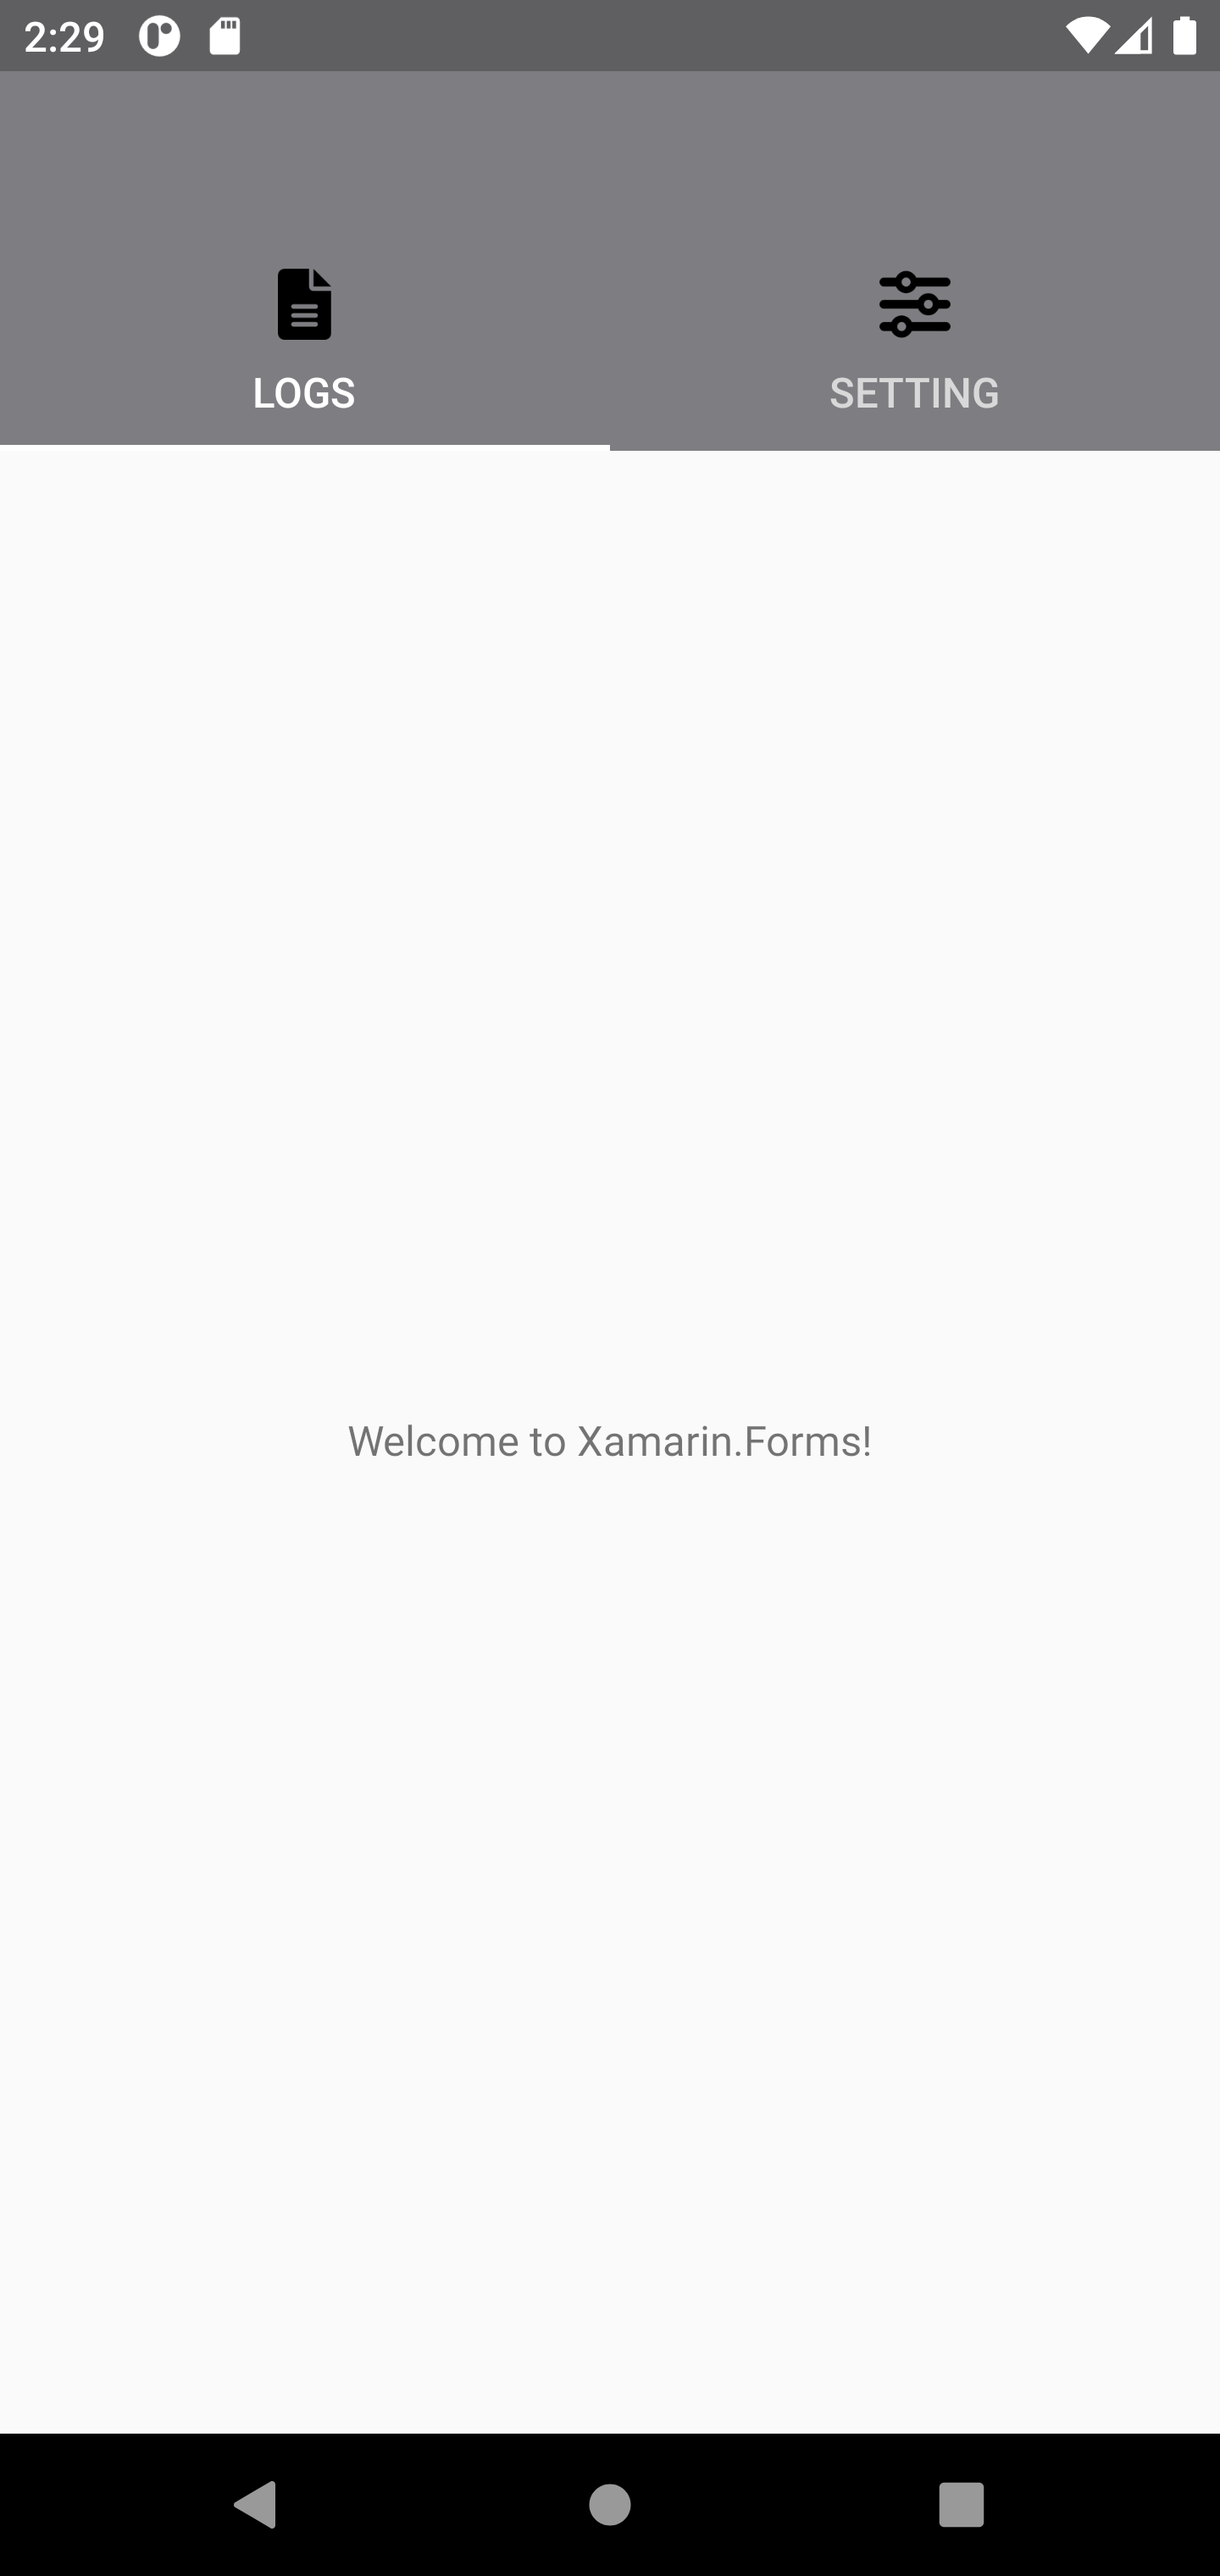
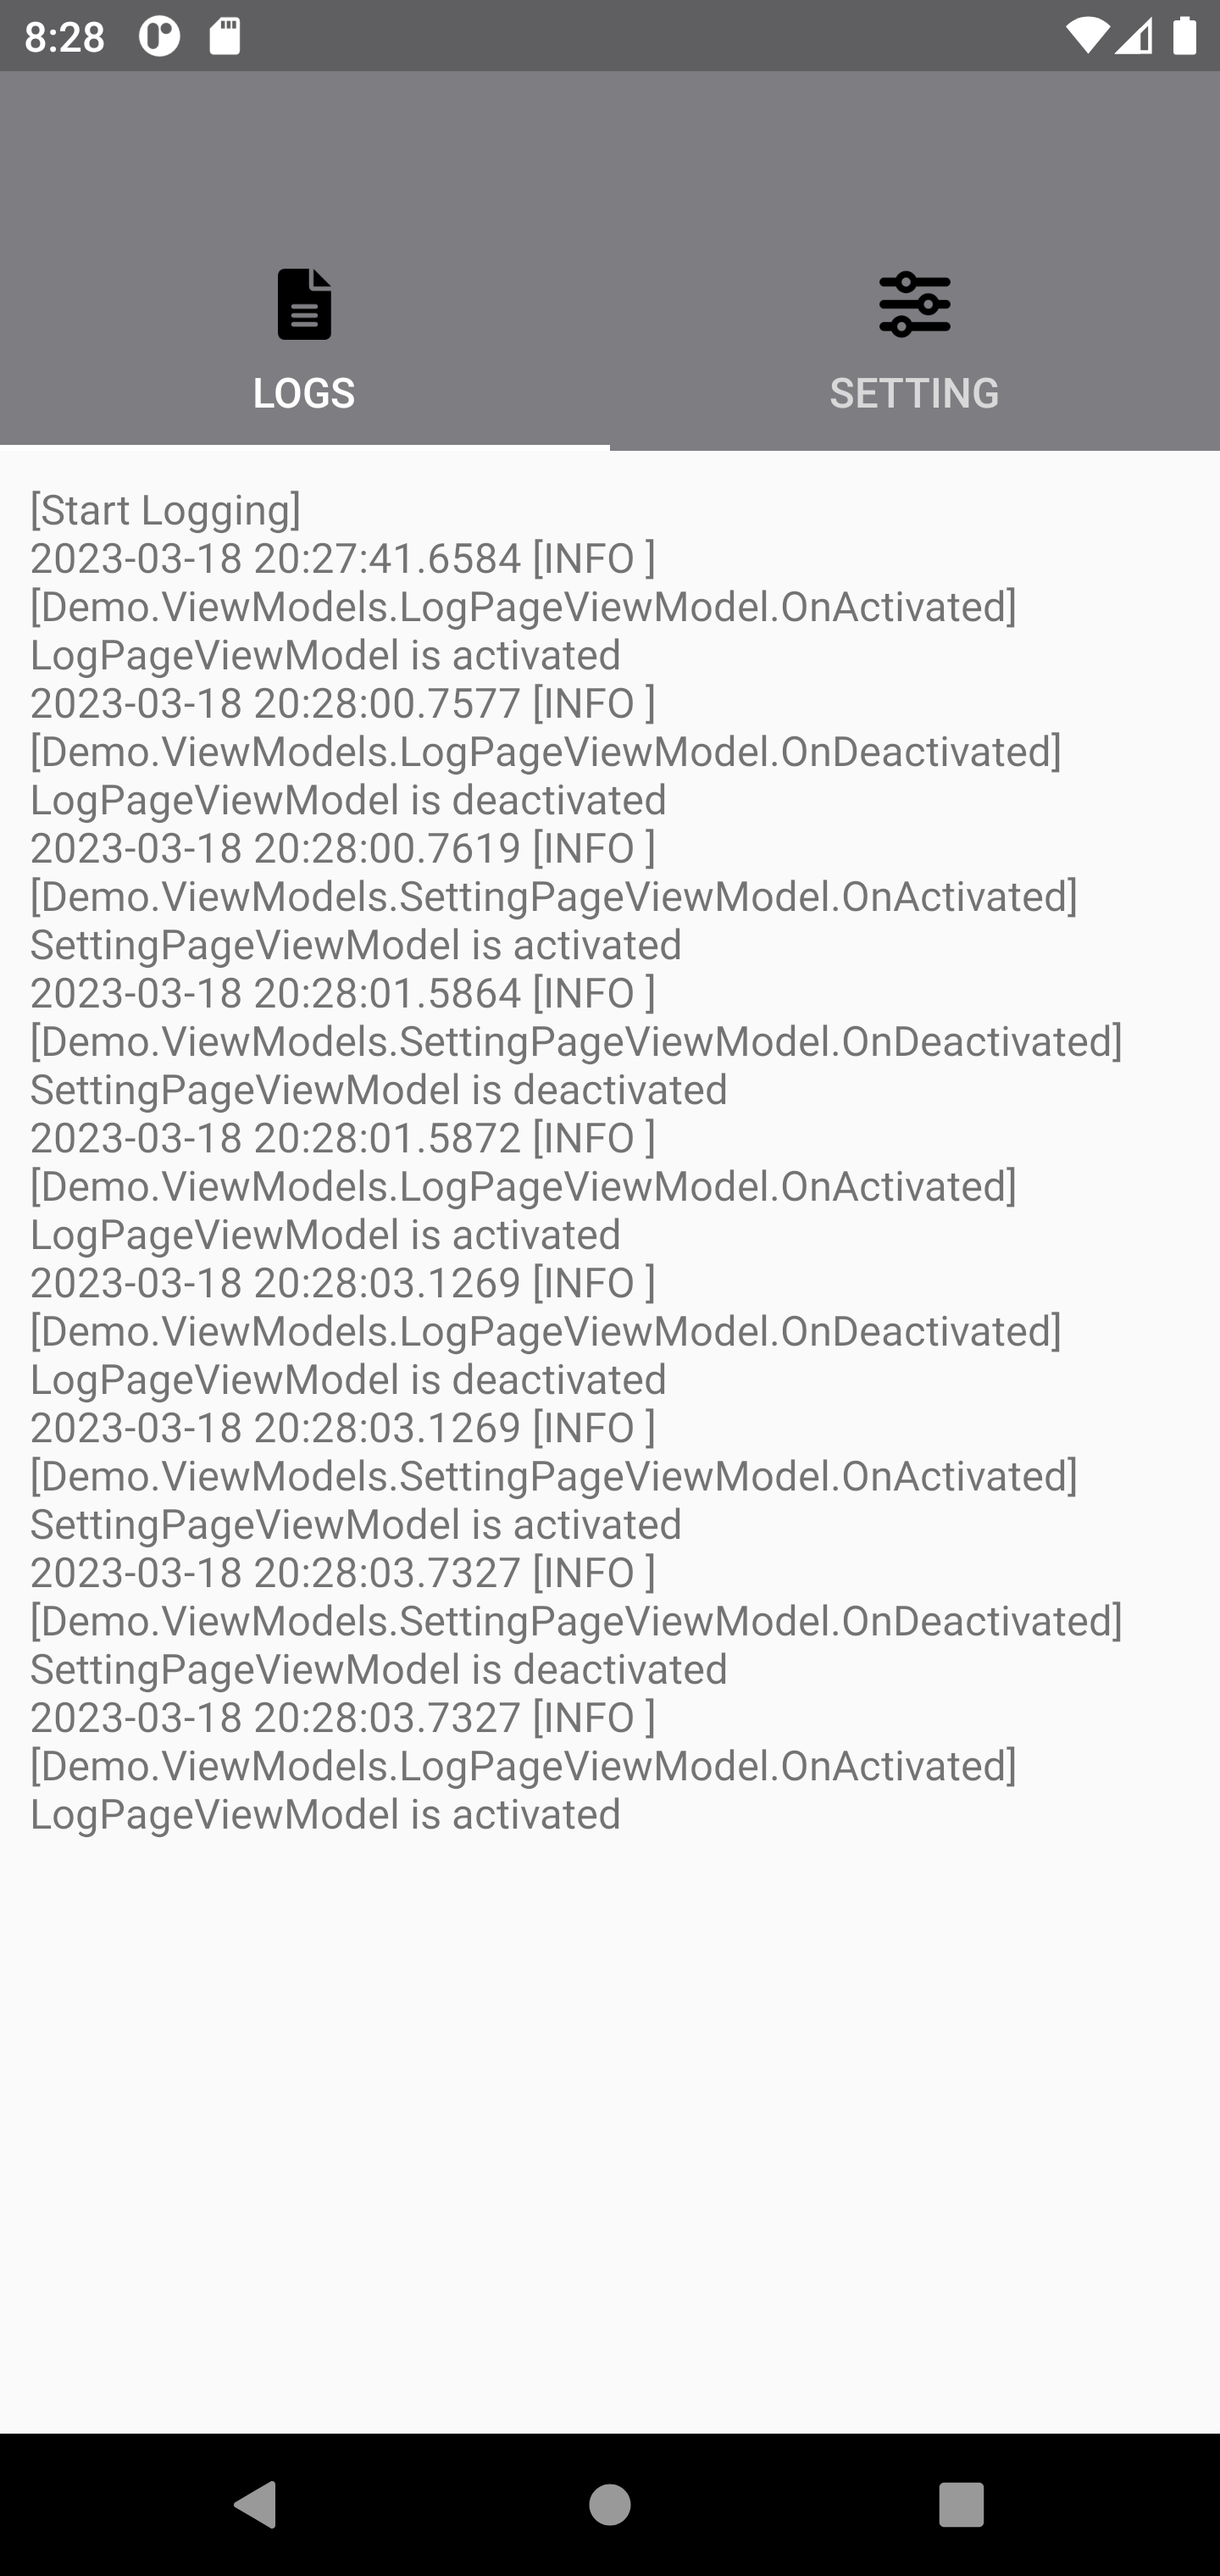
fix

Changed region(s): [[0.0312, 0.1875, 0.9062, 0.7188]]

diff --git a/Xamarin/21_TabbedPage/sources/Demo/Views/LogPage.xaml b/Xamarin/21_TabbedPage/sources/Demo/Views/LogPage.xaml
@@ -9,10 +9,13 @@
     </ContentPage.BindingContext>
 
     <ContentPage.Content>
-        <StackLayout>
-            <Label HorizontalOptions="CenterAndExpand"
-                   Text="Welcome to Xamarin.Forms!"
-                   VerticalOptions="CenterAndExpand" />
+        <StackLayout Padding="10"
+                     HorizontalOptions="FillAndExpand"
+                     VerticalOptions="FillAndExpand">
+            <ScrollView HorizontalOptions="FillAndExpand"
+                        VerticalOptions="FillAndExpand">
+                <Label Text="{Binding Logs}" />
+            </ScrollView>
         </StackLayout>
     </ContentPage.Content>
 </ContentPage>

diff --git a/Xamarin/21_TabbedPage/sources/Demo/ViewModels/TabbedPageViewModelBase.cs b/Xamarin/21_TabbedPage/sources/Demo/ViewModels/TabbedPageViewModelBase.cs
@@ -1,0 +1,87 @@
+using System;
+
+using Prism;
+using Prism.Mvvm;
+using Prism.Navigation;
+
+using Demo.Services.Interfaces;
+
+namespace Demo.ViewModels
+{
+
+    public abstract class TabbedPageViewModelBase : BindableBase, IActiveAware
+    {
+
+        #region Constructors
+
+        protected TabbedPageViewModelBase(INavigationService navigationService,
+                                          ILoggingService loggingService)
+        {
+            this.NavigationService = navigationService;
+            this.LoggingService = loggingService;
+        }
+
+        #endregion
+
+        #region Properties
+
+        protected ILoggingService LoggingService
+        {
+            get;
+        }
+
+        protected INavigationService NavigationService
+        {
+            get;
+        }
+
+        private string _Title;
+
+        public string Title
+        {
+            get => this._Title;
+            protected set => SetProperty(ref this._Title, value);
+        }
+
+        #endregion
+
+        #region Methods
+
+        protected virtual void OnActivated()
+        {
+
+        }
+
+        protected virtual void OnDeactivated()
+        {
+
+        }
+
+        #endregion
+
+        #region IActiveAware Members
+
+        public event EventHandler IsActiveChanged;
+
+        private bool _IsActive;
+
+        public bool IsActive
+        {
+            get => this._IsActive;
+            set
+            {
+                if (!this.SetProperty(ref this._IsActive, value)) 
+                    return;
+
+                if (this._IsActive)
+                    this.OnActivated();
+                else
+                    this.OnDeactivated();
+            }
+        }
+
+        #endregion
+
+    }
+
+}

diff --git a/Xamarin/21_TabbedPage/sources/Demo/ViewModels/LogPageViewModel.cs b/Xamarin/21_TabbedPage/sources/Demo/ViewModels/LogPageViewModel.cs
@@ -1,12 +1,14 @@
-using Prism.Navigation;
+using System.IO;
+using Prism.Navigation;
 
 using Demo.Services.Interfaces;
 using Demo.ViewModels.Interfaces;
+using Prism.Commands;
 
 namespace Demo.ViewModels
 {
 
-    public sealed class LogPageViewModel : ViewModelBase, ILogPageViewModel
+    public sealed class LogPageViewModel : TabbedPageViewModelBase, ILogPageViewModel
     {
 
         #region Fields
@@ -19,12 +21,49 @@ namespace Demo.ViewModels
 
         public LogPageViewModel(INavigationService navigationService,
                                 ILoggingService loggingService)
-            : base(navigationService)
+            : base(navigationService, loggingService)
         {
             this.Title = "Logs";
 
             this._LoggingService = loggingService;
         }
+
+        #endregion
+        
+        #region Properties
+
+        private string _Logs;
+
+        public string Logs
+        {
+            get => this._Logs;
+            private set => SetProperty(ref this._Logs, value);
+        }
+
+        #endregion
+
+        #region Methods
+
+        #region Overrides
+
+        protected override void OnActivated()
+        {
+            this.LoggingService.Info($"{nameof(LogPageViewModel)} is activated");
+
+            var path = this._LoggingService.GetCurrentLogFilePath();
+            if (!string.IsNullOrEmpty(path) && File.Exists(path))
+                this.Logs = File.ReadAllText(path);
+
+            base.OnActivated();
+        }
+
+        protected override void OnDeactivated()
+        {
+            this.LoggingService.Info($"{nameof(LogPageViewModel)} is deactivated");
+            base.OnDeactivated();
+        }
+
+        #endregion
 
         #endregion
 

diff --git a/Xamarin/21_TabbedPage/sources/Demo/ViewModels/SettingPageViewModel.cs b/Xamarin/21_TabbedPage/sources/Demo/ViewModels/SettingPageViewModel.cs
@@ -1,20 +1,42 @@
 using Prism.Navigation;
 
 using Demo.ViewModels.Interfaces;
+using Demo.Services.Interfaces;
 
 namespace Demo.ViewModels
 {
 
-    public sealed class SettingPageViewModel : ViewModelBase, ISettingPageViewModel
+    public sealed class SettingPageViewModel : TabbedPageViewModelBase, ISettingPageViewModel
     {
 
         #region Constructors
 
-        public SettingPageViewModel(INavigationService navigationService)
-            : base(navigationService)
+        public SettingPageViewModel(INavigationService navigationService,
+                                    ILoggingService loggingService)
+            : base(navigationService, loggingService)
         {
             this.Title = "Setting";
         }
+
+        #endregion
+
+        #region Methods
+
+        #region Overrides
+
+        protected override void OnActivated()
+        {
+            this.LoggingService.Info($"{nameof(SettingPageViewModel)} is activated");
+            base.OnActivated();
+        }
+
+        protected override void OnDeactivated()
+        {
+            this.LoggingService.Info($"{nameof(SettingPageViewModel)} is deactivated");
+            base.OnDeactivated();
+        }
+
+        #endregion
 
         #endregion
 

diff --git a/Xamarin/21_TabbedPage/sources/Demo/ViewModels/ViewModelBase.cs b/Xamarin/21_TabbedPage/sources/Demo/ViewModels/ViewModelBase.cs
@@ -1,6 +1,8 @@
 using Prism.Mvvm;
 using Prism.Navigation;
 
+using Demo.Services.Interfaces;
+
 namespace Demo.ViewModels
 {
 
@@ -9,14 +11,21 @@ namespace Demo.ViewModels
 
         #region Constructors
 
-        protected ViewModelBase(INavigationService navigationService)
+        protected ViewModelBase(INavigationService navigationService,
+                                ILoggingService loggingService)
         {
             this.NavigationService = navigationService;
+            this.LoggingService = loggingService;
         }
 
         #endregion
 
         #region Properties
+
+        protected ILoggingService LoggingService
+        {
+            get;
+        }
 
         protected INavigationService NavigationService
         {
@@ -50,11 +59,15 @@ namespace Demo.ViewModels
 
         }
 
+        #endregion
+
+        #region IDestructible Members
+
         public virtual void Destroy()
         {
 
         }
-        
+
         #endregion
 
     }

diff --git a/Xamarin/21_TabbedPage/sources/Demo/ViewModels/MainPageViewModel.cs b/Xamarin/21_TabbedPage/sources/Demo/ViewModels/MainPageViewModel.cs
@@ -10,19 +10,12 @@ namespace Demo.ViewModels
     public sealed class MainPageViewModel : ViewModelBase, IMainPageViewModel
     {
 
-        #region Fields
-
-        private readonly ILoggingService _LoggingService;
-
-        #endregion
-
         #region Constructors
 
         public MainPageViewModel(INavigationService navigationService,
                                  ILoggingService loggingService)
-            : base(navigationService)
+            : base(navigationService, loggingService)
         {
-            this._LoggingService = loggingService;
         }
 
         #endregion

diff --git a/Xamarin/21_TabbedPage/sources/Demo/DesignTimes/LogPageViewModel.cs b/Xamarin/21_TabbedPage/sources/Demo/DesignTimes/LogPageViewModel.cs
@@ -1,5 +1,4 @@
 using Demo.ViewModels.Interfaces;
-using Prism.Commands;
 
 namespace Demo.DesignTimes
 {
@@ -8,6 +7,11 @@ namespace Demo.DesignTimes
     {
 
         public string Title
+        {
+            get;
+        }
+
+        public string Logs
         {
             get;
         }

diff --git a/Xamarin/21_TabbedPage/sources/Demo/ViewModels/Interfaces/ILogPageViewModel.cs b/Xamarin/21_TabbedPage/sources/Demo/ViewModels/Interfaces/ILogPageViewModel.cs
@@ -1,10 +1,14 @@
-using Prism.Commands;
-
-namespace Demo.ViewModels.Interfaces
+namespace Demo.ViewModels.Interfaces
 {
 
     public interface ILogPageViewModel : IViewModel
     {
+
+        string Logs
+        {
+            get;
+        }
+
     }
 
 }
